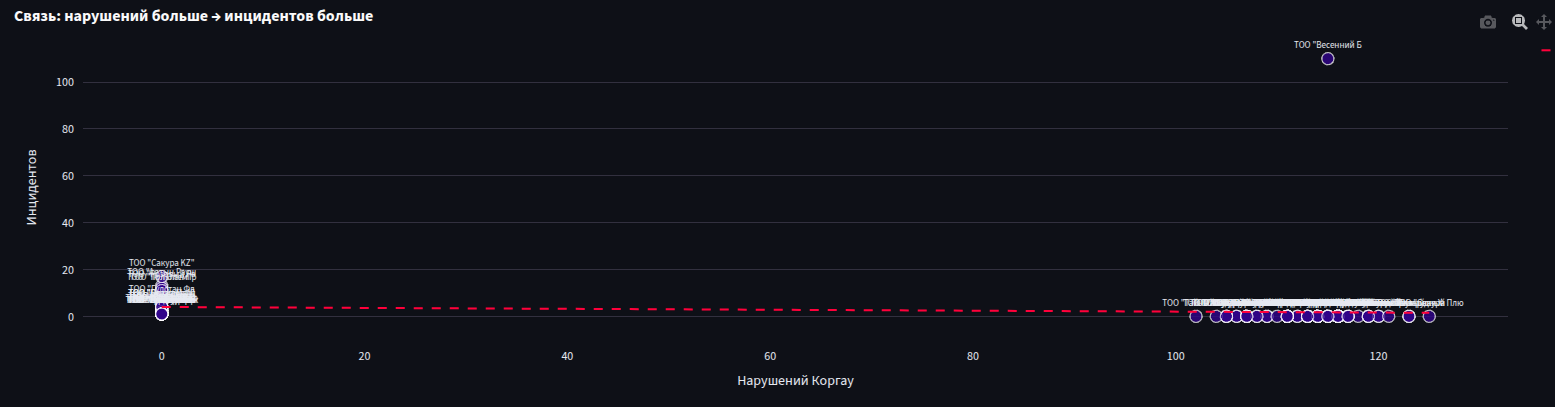
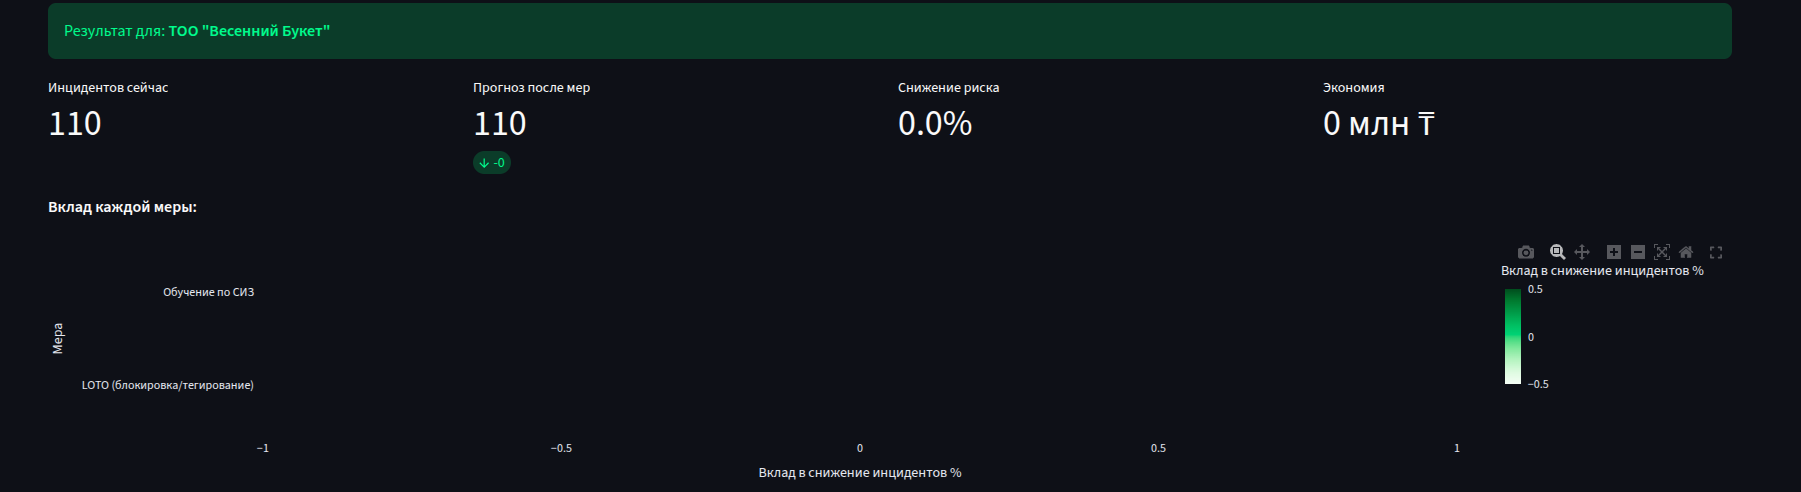
Fix scenario fuzzy match, alert schema, YoY/repeated display, scatter labels
- predictor.py: fuzzy category match (СИЗ → СИЗ / Средства по обеспечению)
- schemas.py: add repeated_violation_reason + yoy_reason to AlertItem
- korgau_analyzer.py: YoY/repeated as info only (no level upgrade)
- streamlit: show 🔄 repeated + 📈 YoY in alert cards
- streamlit: scatter hover-only labels, mock data caption
- streamlit: correlation matrix mock data note
- nlp_service.py: remove description[:800] truncation

diff --git a/app/services/korgau_analyzer.py b/app/services/korgau_analyzer.py
@@ -95,15 +95,14 @@ def get_alerts(reference_date: datetime | None = None) -> list[dict]:
         org_violations = recent[recent["_org"] == row["_org"]]
         top_categories = org_violations["_category"].value_counts().head(3).to_dict()
 
-        # F-11 (HIGH): один тип нарушения >3 раз за 30 дней
+        # F-11: один тип нарушения >3 раз за 30 дней — информация (не повышаем уровень)
         category_counts = org_violations["_category"].value_counts()
         repeated_reason = None
-        if (category_counts > 3).any() and level not in ("CRITICAL", "HIGH"):
-            level = "HIGH"
-            color = "orange"
-            repeated_reason = f"{category_counts.idxmax()} — {int(category_counts.max())} раз за 30 дней"
+        if (category_counts > 3).any():
+            top_cat = category_counts.idxmax()
+            repeated_reason = f"{top_cat} — {int(category_counts.max())} раз за 30 дней"
 
-        # F-14 (MEDIUM): YoY рост нарушений >15%
+        # F-14 (MEDIUM): YoY рост нарушений >15% — повышаем только если уровень LOW
         yoy_reason = None
         org_all = violations[violations["_org"] == row["_org"]]
         if len(org_all) > 0:
@@ -114,9 +113,6 @@ def get_alerts(reference_date: datetime | None = None) -> list[dict]:
                 yoy_pct = round((cur_count - prev_count) / prev_count * 100, 1)
                 if yoy_pct > 15:
                     yoy_reason = f"YoY рост: {yoy_pct}% ({prev_count} → {cur_count})"
-                    if level == "LOW":
-                        level = "MEDIUM"
-                        color = "yellow"
 
         alerts.append({
             "org": row["_org"],

diff --git a/streamlit_app.py b/streamlit_app.py
@@ -461,6 +461,11 @@ with tab3:
         ))
         fig_cm.update_layout(height=420, margin=dict(t=10, b=10))
         st.plotly_chart(fig_cm, use_container_width=True)
+        st.caption(
+            "В мок-данных только 1 организация присутствует в обоих датасетах (инциденты + Коргау). "
+            "Матрица построена по 13 месяцам этой организации. "
+            "В продакшене — сотни организаций, матрица будет точнее."
+        )
 
     st.divider()
 
@@ -578,11 +583,16 @@ with tab4:
         for alert in filtered:
             lvl = alert["level"].lower()
             top_cats = ", ".join(f"{k} ({v})" for k, v in list(alert["top_categories"].items())[:3])
+            extra = ""
+            if alert.get("repeated_violation_reason"):
+                extra += f"<br/>🔄 Повтор: {alert['repeated_violation_reason']}"
+            if alert.get("yoy_reason"):
+                extra += f"<br/>📈 {alert['yoy_reason']}"
             st.markdown(f"""
 <div class="alert-{lvl}">
   <strong>[{alert['level']}] {alert['org']}</strong><br/>
   Нарушений за 30 дней: <strong>{alert['count_30d']}</strong> &nbsp;|&nbsp; Период: {alert['period']}<br/>
-  Топ категории: {top_cats}
+  Топ категории: {top_cats}{extra}
 </div>""", unsafe_allow_html=True)
 
     st.divider()

diff --git a/app/services/predictor.py b/app/services/predictor.py
@@ -321,7 +321,11 @@ def calculate_scenario(org: str, measures: list[str]) -> dict:
         cat = m["category"]
         red_pct = m["reduction_pct"]
 
-        cat_viol = int(viol_by_cat.get(cat, 0))
+        # Fuzzy match: "СИЗ" matches "СИЗ / Средства по обеспечению безопасности"
+        cat_viol = 0
+        for real_cat, count in viol_by_cat.items():
+            if cat.lower() in real_cat.lower() or real_cat.lower().startswith(cat.lower()):
+                cat_viol += int(count)
         # Вес категории в общем портфеле нарушений org (если данных нет — берём 5% базово)
         weight = (cat_viol / total_viol) if total_viol > 0 else 0.05
 

diff --git a/app/schemas.py b/app/schemas.py
@@ -1,5 +1,5 @@
 from pydantic import BaseModel
-from typing import Any
+from typing import Any, Optional
 
 
 class ClassifyRequest(BaseModel):
@@ -20,6 +20,8 @@ class AlertItem(BaseModel):
     count_30d: int
     top_categories: dict[str, int]
     period: str
+    repeated_violation_reason: Optional[str] = None
+    yoy_reason: Optional[str] = None
 
 
 class RiskScoreItem(BaseModel):
